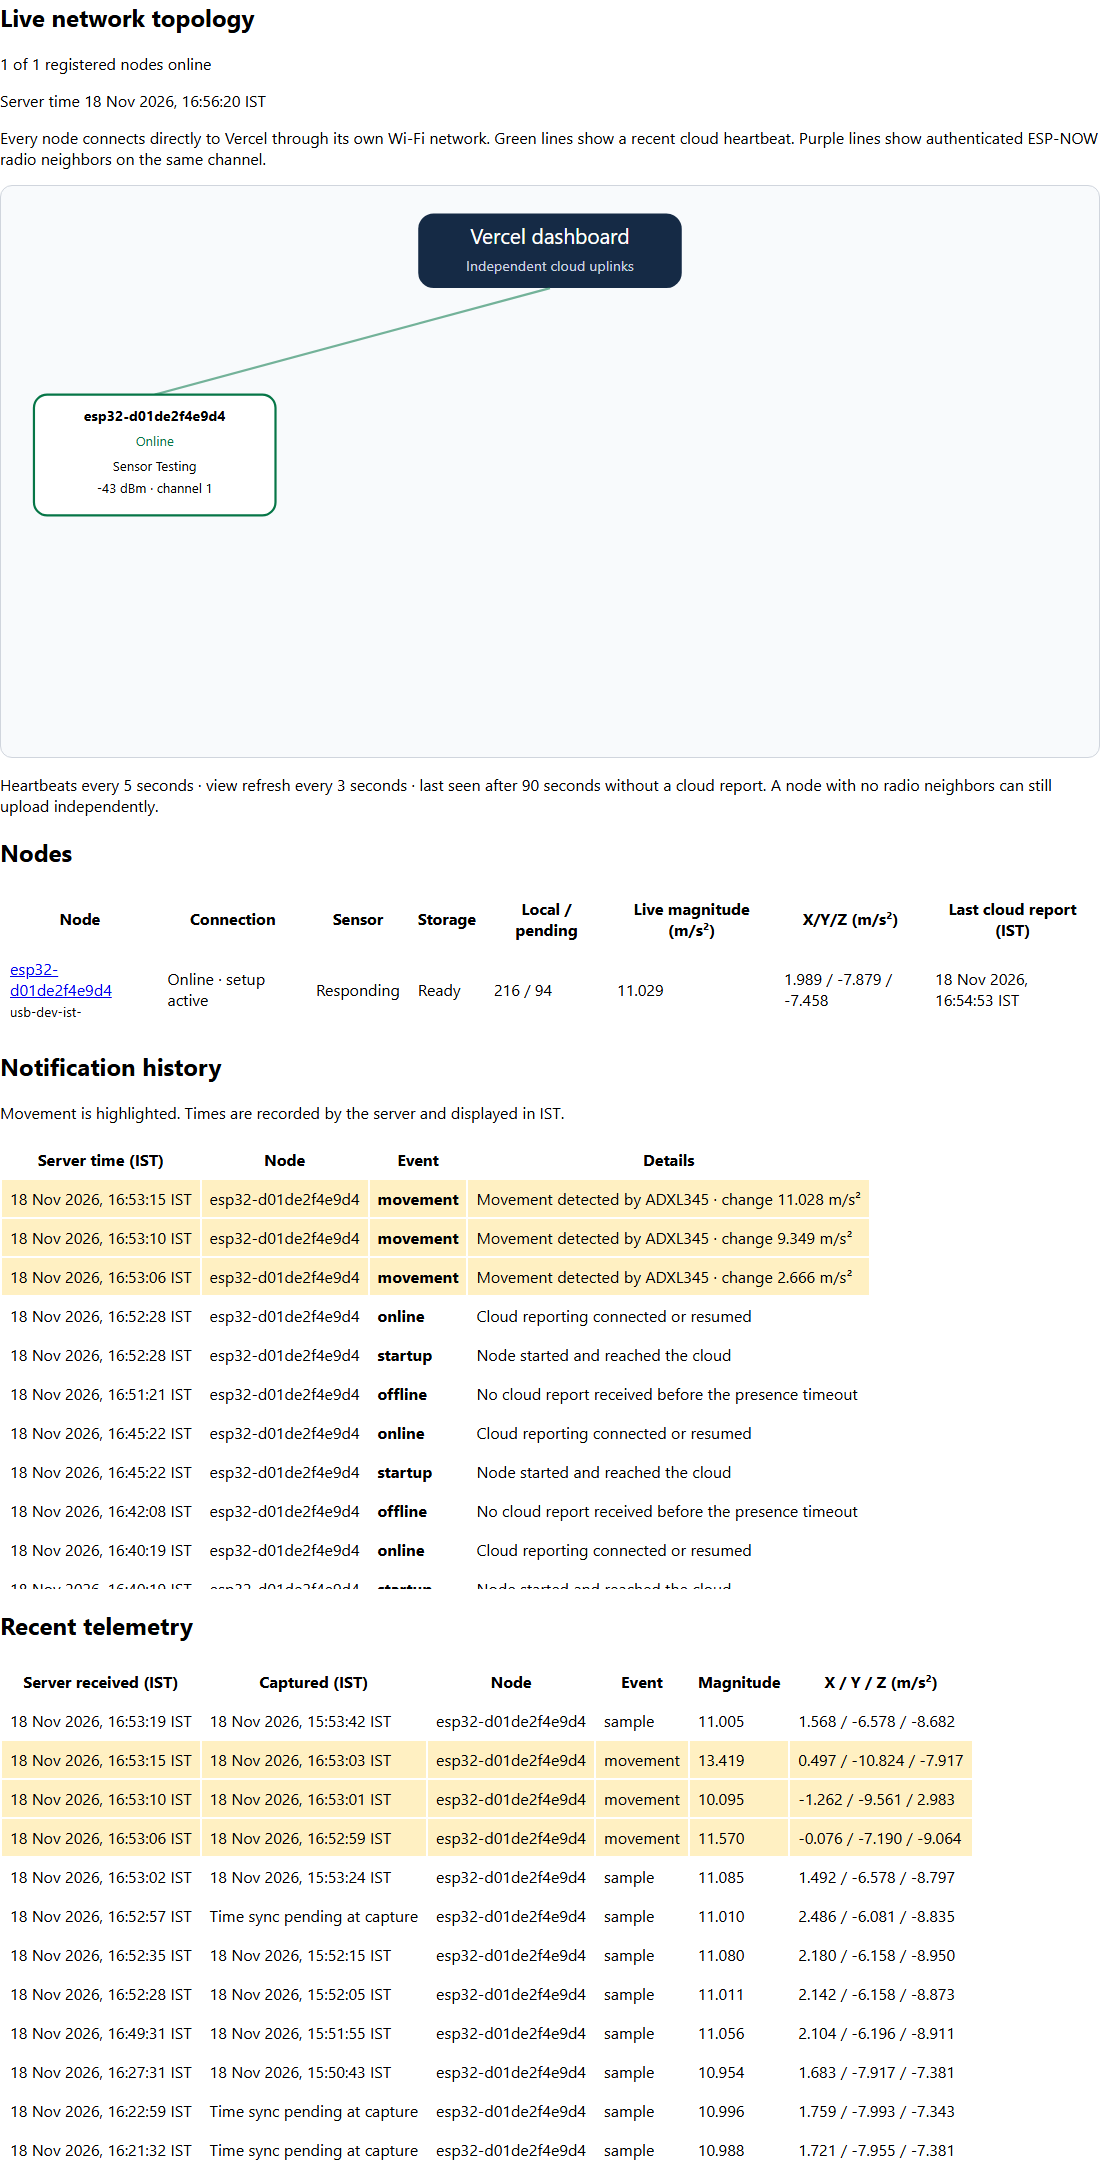
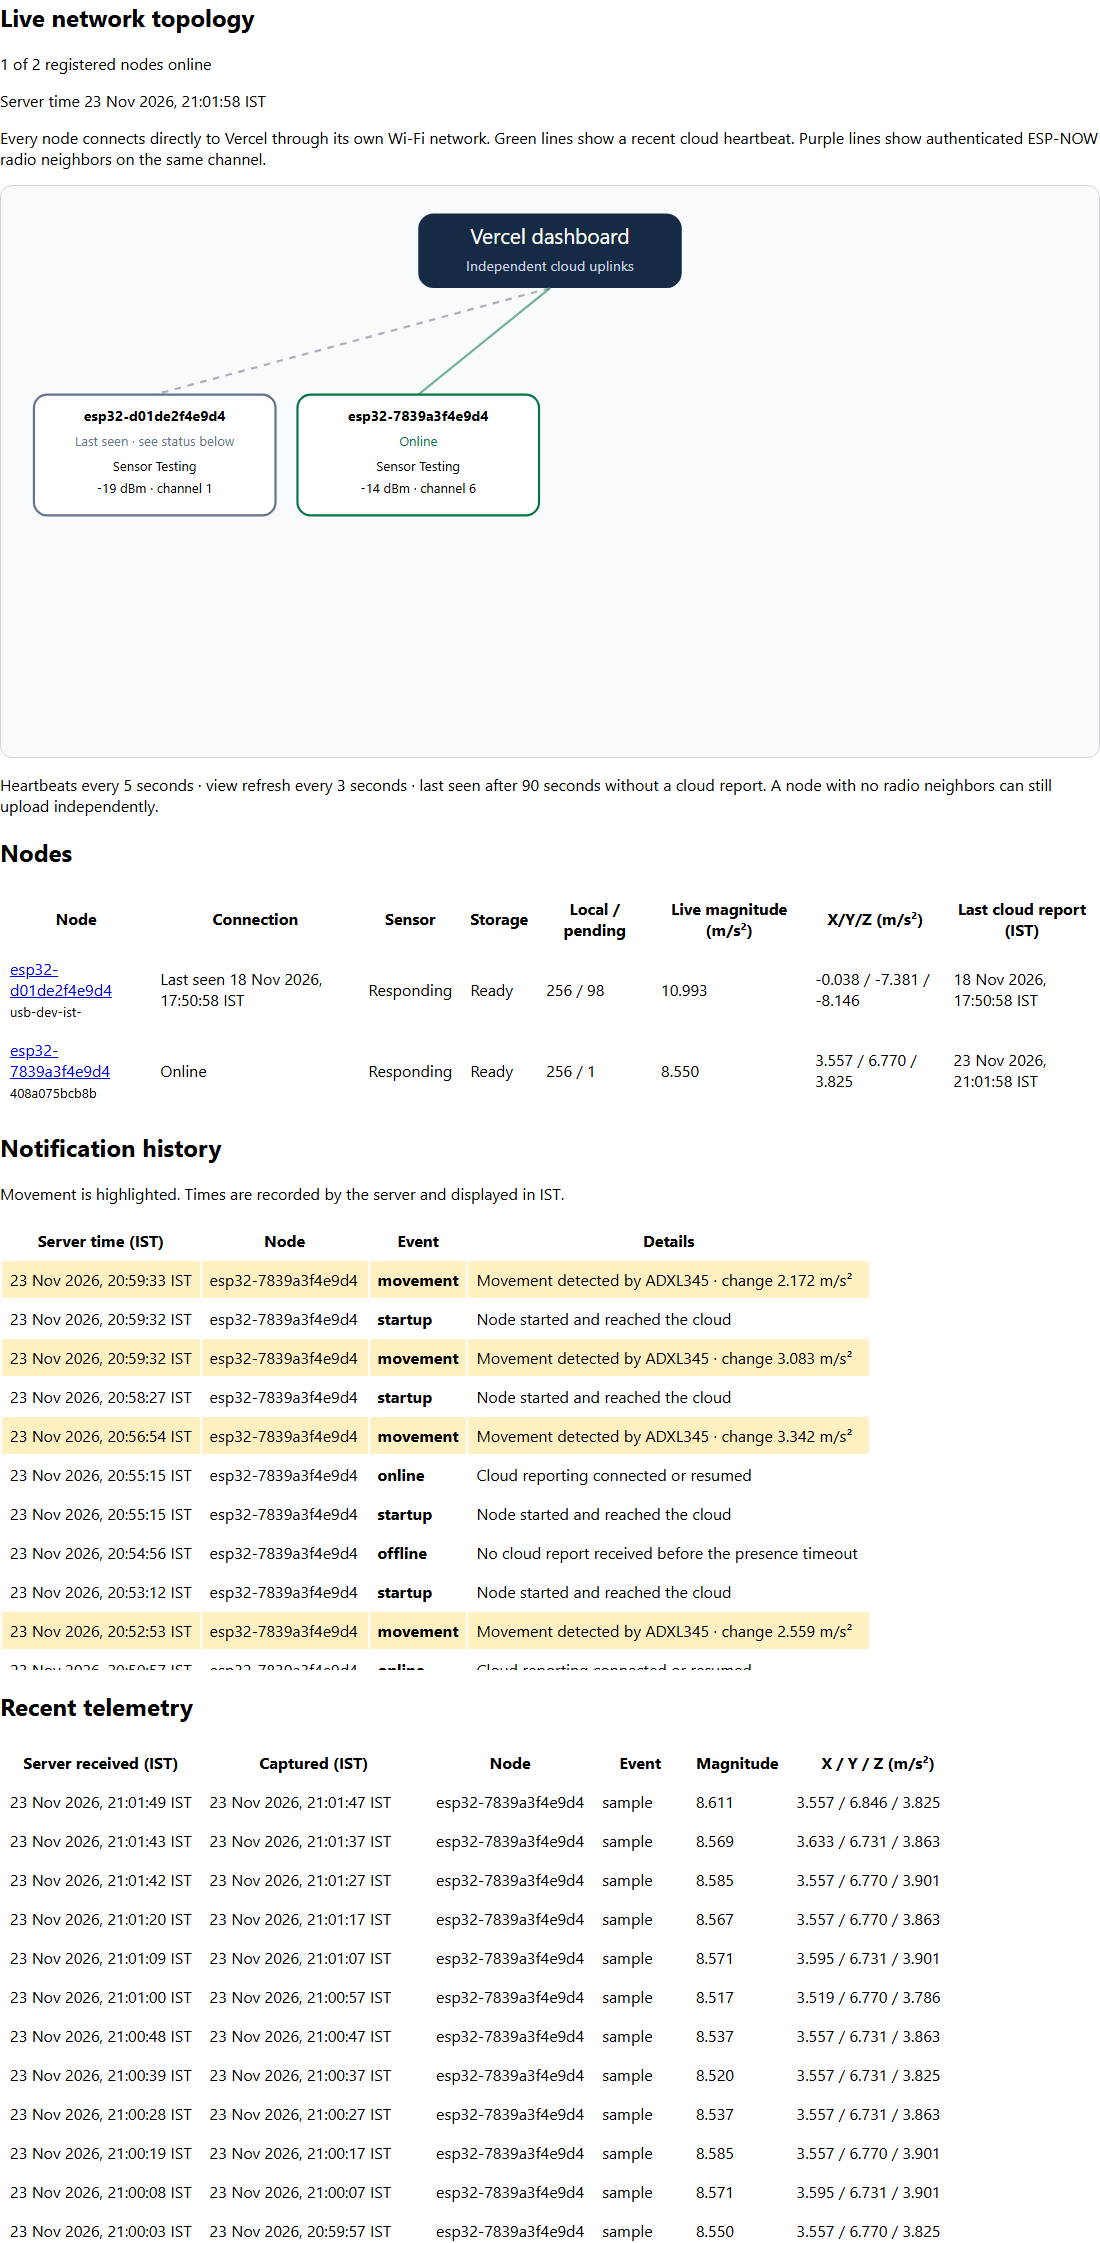
Document completed relay OTA acceptance and refresh live screenshots

diff --git a/docs/VERIFICATION.md b/docs/VERIFICATION.md
@@ -1,5 +1,11 @@
 # Verification record
 
+## Latest verified state — November 23, 2026
+
+At approximately 21:00 IST, COM5 node `esp32-7839a3f4e9d4` was online on release `408a075bcb8b8eb4366a380ffc283637349bcc57`, installed remotely through the Vercel firmware origin. Pending boot was confirmed, sensor/storage were healthy, all 256 retained records were present, the upload queue was empty, IST matched host time, and setup AP was inactive. The authenticated dashboard showed fresh telemetry and movement notifications. The November 18 node retained its historical last-seen state. Detailed acceptance and earlier failures follow below.
+
+Calibration, multiple physical radio peers, controlled power cuts and failed-image rollback remain open. Successful OTA acceptance is verified; this is not a claim of full production acceptance.
+
 ## Recorded checks
 
 | Date | Check | Result |
@@ -162,3 +168,11 @@ The first close-delimited bootstrap upload stopped mid-write at 34% with “chip
 The device acknowledged saved Vercel provisioning at 20:48:44 IST and rebooted. At 20:49:31 it received an unknown-length HTTP 200 manifest, parsed the expected `f888f16` version, and received HTTP 200 for the image at 20:49:36. The transfer later stalled and aborted at the 30-second inactivity bound at 20:50:50, with 1,134,104 bytes remaining. The running application/history stayed intact. A further check failed before image download. Inspection of the pinned framework showed `Stream::readBytes()` calling `timedRead()` once per byte, so OTA reads were replaced by bounded bulk TLS reads with cooperative waits. This removes that overhead; it does not guarantee recovery from an unavailable internet connection.
 
 The operator confirmed that Sensor Testing is a mobile hotspot with stable internet. Device-side connection failures therefore remain ESP32/path observations, not proof of a general hotspot outage. The bulk-read build compiled with 50,476 bytes RAM and 1,217,905 bytes application flash. Its recovery upload verified hashes at 115200 baud and resumed authenticated heartbeat/telemetry without reopening setup. Final release and device results follow below.
+
+### Completed Vercel OTA acceptance
+
[1 lines of base64/hex data omitted]
+
+The existing 256-record journal loaded at 20:59:27. Authenticated cloud reporting resumed and pending boot was confirmed at 20:59:50. Serial status at 21:00:15 reported the exact release, `pendingVerification=false`, zero pending records, healthy storage/sensor, saved Sensor Testing network, setup inactive, solid status LED, and `21:00:14 IST`. The authenticated production dashboard read at 21:00:33 confirmed the same version, mode running, zero backlog, fresh measurements, a new startup notification and movement notifications. The older node's historical last seen remained unchanged. No portal reopening, Wi-Fi re-entry or BOOT-button intervention was needed for this remote update.
+
+The deployed relay source is in `dpl_64bdeWVmQ81Mi8yuqqwbx6MiQ5Kq`; subsequent firmware/doc commits do not require rebuilding that unchanged route. New online nodes configured with its URL follow the Actions stable channel. Offline physical nodes have not been claimed as upgraded. The real dashboard screenshots were refreshed after acceptance; the real portal screenshot remains from the earlier controlled portal test.

diff --git a/docs/NODE-7839A3.md b/docs/NODE-7839A3.md
@@ -9,6 +9,8 @@
 | Sensor connections | SDA GPIO 21, SCL GPIO 22, VCC 3V3, common GND |
 | Saved network target | Sensor Testing |
 | Setup network after this revision | ESP32-Setup-7839a3f4e9d4 |
+| Verified running release, November 23 | `408a075bcb8b8eb4366a380ffc283637349bcc57` |
+| Persistent OTA manifest origin | `https://esp32-fleet-iot-project3.vercel.app/v1/firmware` |
 
 The board initially ran a standalone ADXL345 sketch with raw X/Y/Z output and no fleet reports. Its identity differs from the November 18 node. Both registrations are retained, with individual API secrets. Old history is not reassigned to the new board.
 
@@ -23,3 +25,5 @@ A manual acquisition load test created real sensor samples to exercise local ret
 The portal subsequently displayed 30 recent records and exported all 256 records in 28,345 ms. Saving settings with blank password/secret inputs preserved the saved values and restored reporting after reboot. See `images/portal-live.png` for the real setup screenshot. Later OTA checks used USB serial commands without reopening setup.
 
 On November 23 at 20:22:07 IST the node completed a verified 1,223,744-byte OTA download of release `94121482ba1aaec5d01e3c23996ec915138fb502`. It rebooted into that version, retained 256 records, reconnected with saved settings, and confirmed its healthy pending boot at 20:22:40. Earlier interrupted/stalled downloads preserved the running application and resumed cloud uploads. The firmware history and exact checksums are recorded in [verification](VERIFICATION.md).
+
+The final relay test installed `408a075` through Vercel at 20:59:14 IST after a 41-second, 1,224,352-byte transfer with full validation. Healthy pending boot was confirmed at 20:59:50. At 21:00 the device and dashboard agreed on the new version, synchronized time, healthy sensor/storage, 256 retained records and zero upload backlog. Setup remained inactive. The saved relay URL follows the same GitHub Actions stable channel while avoiding direct ESP32 connections to GitHub release-asset hosts that had repeatedly timed out. Sensor calibration and controlled fault tests remain outstanding.

diff --git a/docs/images/README.md b/docs/images/README.md
@@ -2,15 +2,15 @@
 
 | File | Source |
 | --- | --- |
-| `dashboard-login.png` | Live deployed application sign-in on November 18, 2026 |
-| `dashboard-nodes.png` | Live authenticated dashboard with the physical ADXL345 node |
-| `dashboard-topology.png` | Live topology and sensor-health view |
-| `dashboard-ist-history.png` | Live IST telemetry and movement notification history |
+| `dashboard-login.png` | Live deployed application sign-in on November 23, 2026 |
+| `dashboard-nodes.png` | Live authenticated dashboard after the November 23 OTA acceptance |
+| `dashboard-topology.png` | Live topology with the current node online and older node last seen |
+| `dashboard-ist-history.png` | Live IST telemetry and movement history on verified release 408a075 |
 | `dashboard-offline.png` | Physical node offline after its cloud uplink was paused in setup mode |
 | `provisioning-reference.png` | Actual `PortalPage` HTML extracted from firmware, rendered with sample settings |
 | `portal-live.png` | Real November 23 node, live settings/status/recent logs, password fields left blank |
 
-The portal image is a documentation reference captured without a connected ESP32. It shows placeholder identity and SSID values. Screenshot capture avoids showing passwords, access links, or authentication cookies.
+`provisioning-reference.png` is a documentation reference rendered without hardware, with placeholder identity and SSID values. `portal-live.png` is the separate real-device capture. Screenshot capture avoids showing passwords, access links, or authentication cookies.
 
 ## Regenerate
 

diff --git a/README.md b/README.md
@@ -216,3 +216,5 @@ IOTProject/
 OTA can follow GitHub directly or use the Vercel manifest at `https://esp32-fleet-iot-project3.vercel.app/v1/firmware` when a network cannot reach GitHub release hosts. Both follow the same Actions-published channel. The Vercel route serves only this repository's validated images; the ESP32 checks them again. See [OTA operations](docs/FIRMWARE.md) and the [measured verification record](docs/VERIFICATION.md) for successful updates, failures and recovery procedures.
 
 The ADXL345 firmware has been built and flashed on the connected COM5 board. Sensor identity, live reads, Wi-Fi, and persistent local storage were exercised. Calibration, multiple-node radio behavior, controlled power cuts, and failed-image rollback still need targeted bench checks. See the [verification record](docs/VERIFICATION.md).
+
+On November 23, 2026, node `esp32-7839a3f4e9d4` installed release `408a075` remotely through Vercel, verified and rebooted successfully, retained 256 records, and resumed reporting with zero backlog. The 1,224,352-byte binary transfer took 41 seconds. Its Wi-Fi and OTA settings remained saved; setup AP was inactive. The dashboard confirmed the new version, online status, IST telemetry and movement notifications.
